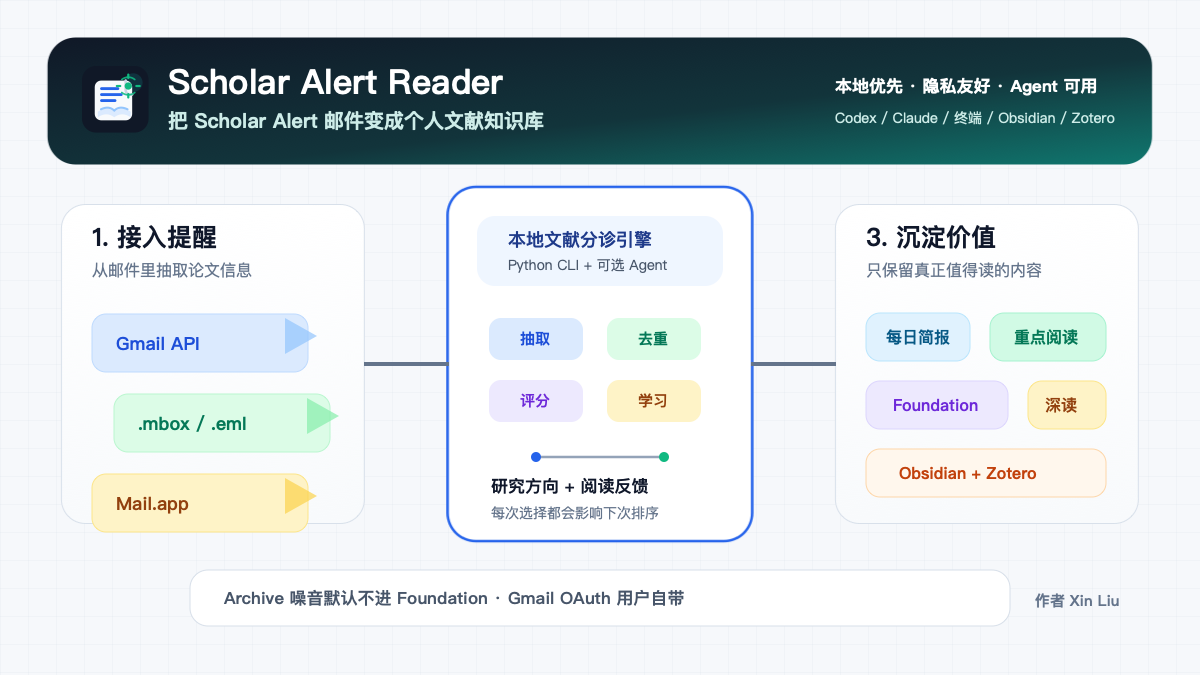
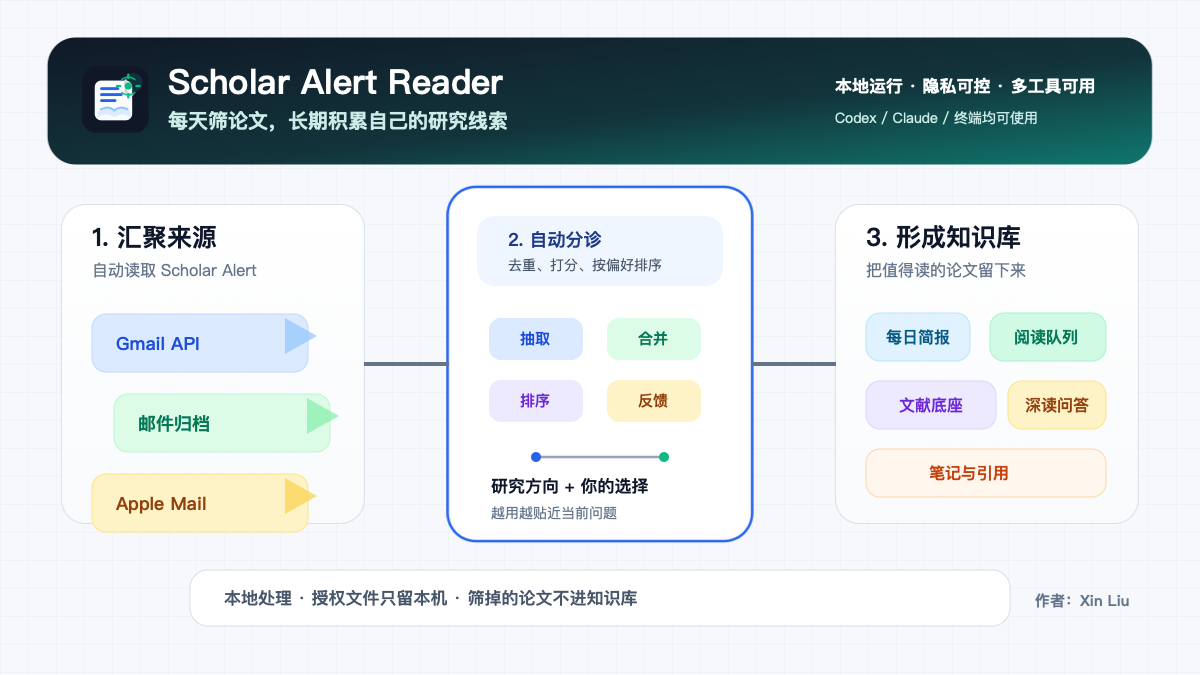
Polish Chinese architecture copy

diff --git a/scripts/generate_marketing_assets.py b/scripts/generate_marketing_assets.py
@@ -136,48 +136,48 @@ def svg_assets() -> None:
 <rect x="48" y="38" width="1104" height="126" rx="28" fill="url(#hero)" filter="url(#shadow)"/>
 <g transform="translate(82 66) scale(.13)">{logo_mark}</g>
 <text x="168" y="94" fill="#ffffff" font-family="PingFang SC, Inter, Arial, sans-serif" font-size="34" font-weight="850">Scholar Alert Reader</text>
-<text x="168" y="128" fill="#cdece8" font-family="PingFang SC, Inter, Arial, sans-serif" font-size="20" font-weight="600">把 Scholar Alert 邮件变成个人文献知识库</text>
-<text x="835" y="92" fill="#ffffff" font-family="PingFang SC, Inter, Arial, sans-serif" font-size="17" font-weight="750">本地优先 · 隐私友好 · Agent 可用</text>
-<text x="835" y="123" fill="#cdece8" font-family="PingFang SC, Inter, Arial, sans-serif" font-size="14">Codex / Claude / 终端 / Obsidian / Zotero</text>
+<text x="168" y="128" fill="#cdece8" font-family="PingFang SC, Inter, Arial, sans-serif" font-size="20" font-weight="600">每天筛论文，长期积累自己的研究线索</text>
+<text x="835" y="92" fill="#ffffff" font-family="PingFang SC, Inter, Arial, sans-serif" font-size="17" font-weight="750">本地运行 · 隐私可控 · 多工具可用</text>
+<text x="835" y="123" fill="#cdece8" font-family="PingFang SC, Inter, Arial, sans-serif" font-size="14">Codex / Claude / 终端均可使用</text>
 
 <g font-family="PingFang SC, Inter, Arial, sans-serif">
   <rect x="62" y="205" width="302" height="318" rx="24" fill="url(#panel)" stroke="#d8e0ea" filter="url(#shadow)"/>
-  <text x="92" y="246" fill="#0f172a" font-size="25" font-weight="850">1. 接入提醒</text>
-  <text x="92" y="276" fill="#64748b" font-size="16">从邮件里抽取论文信息</text>
+  <text x="92" y="246" fill="#0f172a" font-size="25" font-weight="850">1. 汇聚来源</text>
+  <text x="92" y="276" fill="#64748b" font-size="16">自动读取 Scholar Alert</text>
   <rect x="92" y="314" width="216" height="58" rx="14" fill="#dbeafe" stroke="#bfdbfe"/>
   <text x="116" y="350" fill="#1d4ed8" font-size="18" font-weight="800">Gmail API</text>
   <rect x="114" y="394" width="216" height="58" rx="14" fill="#dcfce7" stroke="#bbf7d0"/>
-  <text x="138" y="430" fill="#047857" font-size="18" font-weight="800">.mbox / .eml</text>
+  <text x="138" y="430" fill="#047857" font-size="18" font-weight="800">邮件归档</text>
   <rect x="92" y="474" width="216" height="58" rx="14" fill="#fef3c7" stroke="#fde68a"/>
-  <text x="116" y="510" fill="#92400e" font-size="18" font-weight="800">Mail.app</text>
+  <text x="116" y="510" fill="#92400e" font-size="18" font-weight="800">Apple Mail</text>
   <path d="M285 318l32 18 -32 18z" fill="#93c5fd" opacity=".7"/>
   <path d="M307 398l32 18 -32 18z" fill="#86efac" opacity=".7"/>
   <path d="M285 478l32 18 -32 18z" fill="#fcd34d" opacity=".7"/>
 
   <rect x="449" y="188" width="302" height="352" rx="28" fill="#ffffff" stroke="#2563eb" stroke-width="2.5" filter="url(#shadow)"/>
   <rect x="477" y="216" width="246" height="70" rx="18" fill="#eff6ff"/>
-  <text x="508" y="246" fill="#1e3a8a" font-size="18" font-weight="800">本地文献分诊引擎</text>
-  <text x="508" y="270" fill="#475569" font-size="14">Python CLI + 可选 Agent</text>
+  <text x="508" y="246" fill="#1e3a8a" font-size="18" font-weight="800">2. 自动分诊</text>
+  <text x="508" y="270" fill="#475569" font-size="14">去重、打分、按偏好排序</text>
   <g font-size="15" font-weight="760">
     <rect x="489" y="318" width="94" height="42" rx="12" fill="#dbeafe"/><text x="520" y="344" fill="#1d4ed8">抽取</text>
-    <rect x="607" y="318" width="94" height="42" rx="12" fill="#dcfce7"/><text x="638" y="344" fill="#047857">去重</text>
-    <rect x="489" y="380" width="94" height="42" rx="12" fill="#ede9fe"/><text x="520" y="406" fill="#6d28d9">评分</text>
-    <rect x="607" y="380" width="94" height="42" rx="12" fill="#fef3c7"/><text x="638" y="406" fill="#92400e">学习</text>
+    <rect x="607" y="318" width="94" height="42" rx="12" fill="#dcfce7"/><text x="638" y="344" fill="#047857">合并</text>
+    <rect x="489" y="380" width="94" height="42" rx="12" fill="#ede9fe"/><text x="520" y="406" fill="#6d28d9">排序</text>
+    <rect x="607" y="380" width="94" height="42" rx="12" fill="#fef3c7"/><text x="638" y="406" fill="#92400e">反馈</text>
   </g>
   <path d="M536 457h128" stroke="#94a3b8" stroke-width="2.5" stroke-linecap="round"/>
   <circle cx="536" cy="457" r="5" fill="#2563eb"/><circle cx="664" cy="457" r="5" fill="#10b981"/>
-  <text x="491" y="492" fill="#0f172a" font-size="17" font-weight="800">研究方向 + 阅读反馈</text>
-  <text x="491" y="518" fill="#64748b" font-size="14">每次选择都会影响下次排序</text>
+  <text x="491" y="492" fill="#0f172a" font-size="17" font-weight="800">研究方向 + 你的选择</text>
+  <text x="491" y="518" fill="#64748b" font-size="14">越用越贴近当前问题</text>
 
   <rect x="836" y="205" width="302" height="318" rx="24" fill="url(#panel)" stroke="#d8e0ea" filter="url(#shadow)"/>
-  <text x="866" y="246" fill="#0f172a" font-size="25" font-weight="850">3. 沉淀价值</text>
-  <text x="866" y="276" fill="#64748b" font-size="16">只保留真正值得读的内容</text>
+  <text x="866" y="246" fill="#0f172a" font-size="25" font-weight="850">3. 形成知识库</text>
+  <text x="866" y="276" fill="#64748b" font-size="16">把值得读的论文留下来</text>
   <g font-size="16" font-weight="800">
     <rect x="866" y="313" width="104" height="48" rx="14" fill="#e0f2fe" stroke="#bae6fd"/><text x="886" y="343" fill="#075985">每日简报</text>
-    <rect x="990" y="313" width="116" height="48" rx="14" fill="#d1fae5" stroke="#a7f3d0"/><text x="1014" y="343" fill="#047857">重点阅读</text>
-    <rect x="866" y="381" width="142" height="48" rx="14" fill="#ede9fe" stroke="#ddd6fe"/><text x="893" y="411" fill="#6d28d9">Foundation</text>
-    <rect x="1028" y="381" width="78" height="48" rx="14" fill="#fef3c7" stroke="#fde68a"/><text x="1045" y="411" fill="#92400e">深读</text>
-    <rect x="866" y="449" width="240" height="48" rx="14" fill="#fff7ed" stroke="#fed7aa"/><text x="899" y="479" fill="#c2410c">Obsidian + Zotero</text>
+    <rect x="990" y="313" width="116" height="48" rx="14" fill="#d1fae5" stroke="#a7f3d0"/><text x="1014" y="343" fill="#047857">阅读队列</text>
+    <rect x="866" y="381" width="130" height="48" rx="14" fill="#ede9fe" stroke="#ddd6fe"/><text x="899" y="411" fill="#6d28d9">文献底座</text>
+    <rect x="1008" y="381" width="98" height="48" rx="14" fill="#fef3c7" stroke="#fde68a"/><text x="1025" y="411" fill="#92400e">深读问答</text>
+    <rect x="866" y="449" width="240" height="48" rx="14" fill="#fff7ed" stroke="#fed7aa"/><text x="929" y="479" fill="#c2410c">笔记与引用</text>
   </g>
 </g>
 
@@ -187,8 +187,8 @@ def svg_assets() -> None:
 </g>
 <g font-family="PingFang SC, Inter, Arial, sans-serif">
   <rect x="190" y="570" width="820" height="56" rx="18" fill="#ffffff" stroke="#d8e0ea"/>
-  <text x="224" y="604" fill="#475569" font-size="17" font-weight="650">Archive 噪音默认不进 Foundation · Gmail OAuth 用户自带</text>
-  <text x="1035" y="606" fill="#64748b" font-size="15" font-weight="650">作者 Xin Liu</text>
+  <text x="224" y="604" fill="#475569" font-size="17" font-weight="650">本地处理 · 授权文件只留本机 · 筛掉的论文不进知识库</text>
+  <text x="1035" y="606" fill="#64748b" font-size="15" font-weight="650">作者：Xin Liu</text>
 </g>
 </svg>
 """
